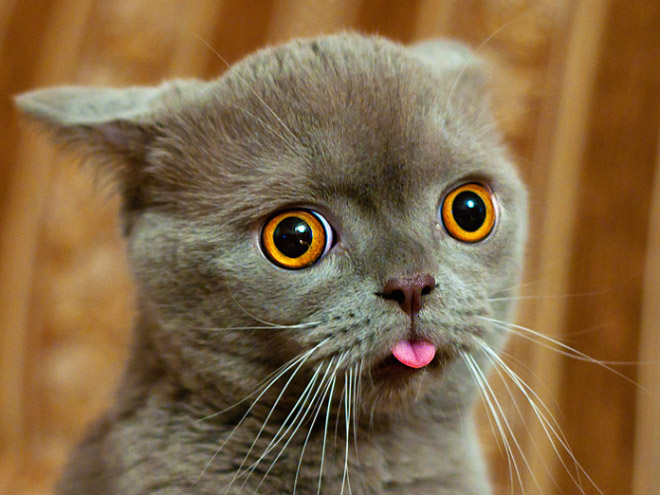
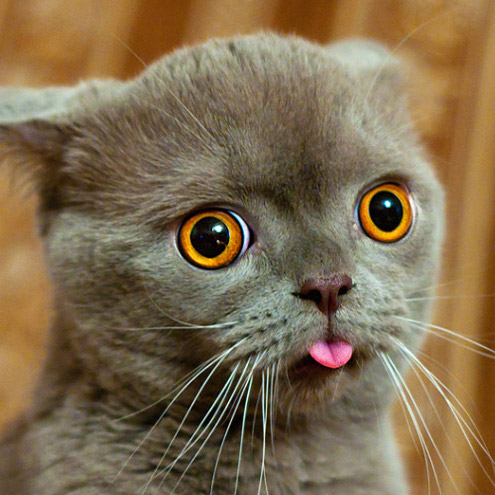
Fix margin on pictures

diff --git a/assets/scripts/events.js b/assets/scripts/events.js
@@ -195,7 +195,7 @@ const checkForWin = function () {
   } else if (rowOne.every(i => i === 'o') || rowTwo.every(i => i === 'o') || rowThree.every(i => i === 'o') || columnOne.every(i => i === 'o') || columnTwo.every(i => i === 'o') || columnThree.every(i => i === 'o') || diagOne.every(i => i === 'o') || diagTwo.every(i => i === 'o')) {
     if (ultron === true) {
       $('h2').html('Ultron wins!')
-      $('#ultron').delay(1500).fadeIn(2000)
+      $('#ultron').delay(1000).fadeIn(2000)
     } else {
       $('h2').html('O wins!')
     }
@@ -204,7 +204,7 @@ const checkForWin = function () {
     finalMove()
   } else if (moveArr.length === 9) {
     $('h2').html('Cats!')
-    $('#cat').delay(1500).fadeIn(2000)
+    $('#cat').delay(1000).fadeIn(2000)
     $('.moveMessage').html('')
     gameData.game.over = true
     finalMove()

diff --git a/assets/styles/index.scss b/assets/styles/index.scss
@@ -28,6 +28,7 @@ body {
   width: 450px;
   margin: 0 auto;
   font-family: sans-serif;
+  padding: 0;
 }
 
 img {
@@ -35,6 +36,8 @@ img {
   height: 450px;
   width: 450px;
   position: absolute;
+  padding-left: 0;
+  margin: 0 auto;
 }
 input {
   border: solid $border-color;
@@ -78,6 +81,8 @@ s-in {
 
 .row {
   height: 150px;
+  padding: 0;
+  margin: 0 auto;
 }
 
 .box {
@@ -87,6 +92,8 @@ s-in {
   display: flex;
   justify-content: center;
   font-size: 80px;
+  padding: 0;
+  margin: 0 auto;
 }
 
 .box:hover {

diff --git a/index.html b/index.html
@@ -15,7 +15,7 @@
 <body class="container-fluid">
   <header class="row headrow">
     <div class="tit col-4">
-    <h1>Tic Tac Toe!</h1>
+    <h1>Tic Tac Toe</h1>
     </div>
     <div class="col-4 upmid" id="vanish">
       <button type="button" class="btn newGame disappear" data-toggle="modal" data-target="#vsWho">New Game</button>
